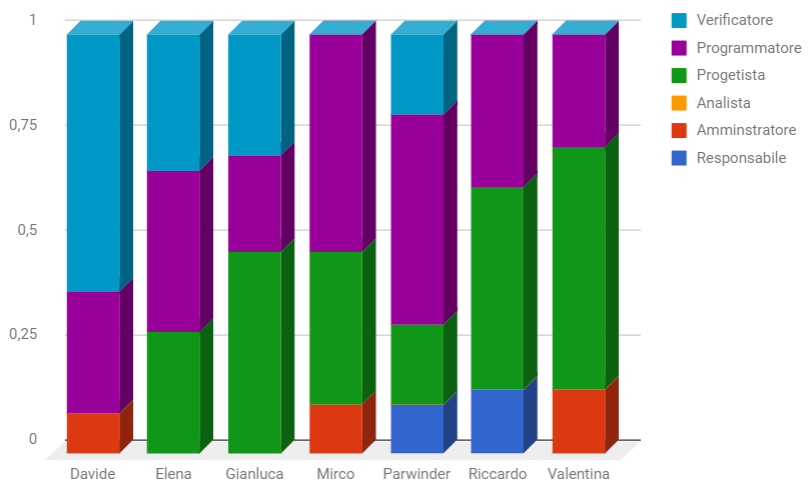
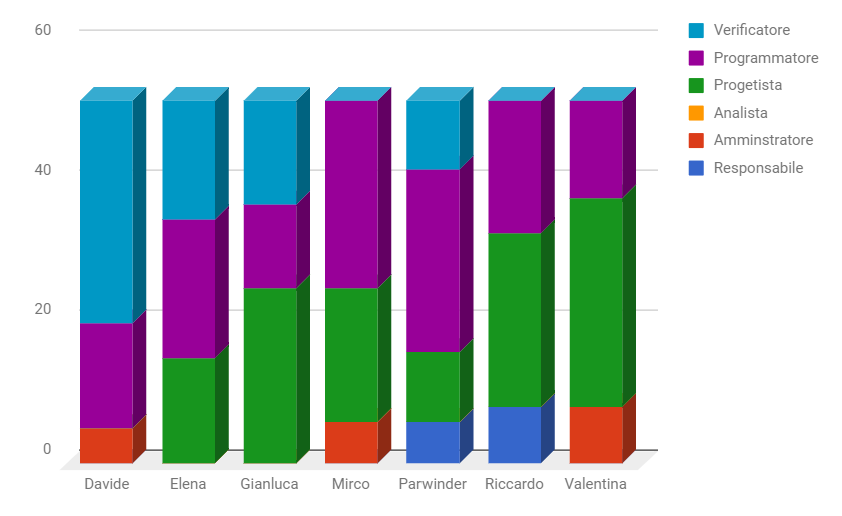
Fine preventivo piano di progetto

Changed region(s): [[0.0, 0.0308, 0.9864, 0.9856], [0.0308, 0.0308, 0.0617, 0.0616]]

diff --git a/Esterni - ENG/PianoDiProgetto/Preventivo.tex b/Esterni - ENG/PianoDiProgetto/Preventivo.tex
@@ -1,7 +1,7 @@
 \documentclass[PianoDiProgetto.tex]{subfiles}
 
 \begin{document}
-\chapter{Preventivo iniziale}
+\chapter{Suddivisione risorse e preventivo}
 \section{Analisi}
 \subsection{Prospetto Orario}
 Nel periodo di Analisi la distribuzione oraria è la seguente:
@@ -72,10 +72,8 @@ Il seguente grafico dà una rappresentazione visiva della distribuzione dei ruol
 \end{figure} 
 \clearpage
 \section{Consolidamento dei requisiti}
-
 \subsection{Prospetto Orario}
-Nel periodo di Consolidamento dei requisiti la distribuzione oraria è la
-seguente:
+Nel periodo di Consolidamento dei requisiti la distribuzione oraria è la seguente:
 \begin{center}
 
 \begin{table}[htbp]
@@ -106,6 +104,7 @@ seguente:
 Il seguente grafico dà una rappresentazione visiva della suddivisione oraria:
 
 \begin{figure}[h]
+	\centering
 	\includegraphics[width=14.5cm]{images/prospettoOrario/consolidamento.png}
 	\label{fig:foo}
 	\caption{Grafico suddivisione oraria del periodo di Consolidamento dei requisiti}
@@ -140,9 +139,10 @@ Nel periodo di Analisi la distribuzione delle ore tra i differenti ruoli è la s
 \end{center}
 Il seguente grafico dà una rappresentazione visiva della distribuzione dei ruoli:
 \begin{figure}[h]
-\includegraphics[width=12.5cm]{images/prospettoEconomico/consolidamento.png}
-\label{fig:foo}
-\caption{Grafico suddivisione dei ruoli del periodo di Consolidamento dei requisiti}
+	\centering
+	\includegraphics[width=12.5cm]{images/prospettoEconomico/consolidamento.png}
+	\label{fig:foo}
+	\caption{Grafico suddivisione dei ruoli del periodo di Consolidamento dei requisiti}
 \end{figure} 
 \clearpage
 \section{Progettazione architetturale}
@@ -175,6 +175,7 @@ Nel periodo di Progettazione architetturale la distribuzione oraria è la seguen
 \end{center}
 Il seguente grafico dà una rappresentazione visiva della suddivisione oraria:
 \begin{figure}[h]
+	\centering
 	\includegraphics[width=12.5cm]{images/prospettoOrario/progArch.png}
 	\label{fig:foo}
 	\caption{Grafico suddivisione oraria del periodo di Progettazione architetturale}
@@ -209,9 +210,10 @@ Nel periodo di Progettazione architetturale la distribuzione delle ore tra i dif
 \end{center}
 Il seguente grafico dà una rappresentazione visiva della distribuzione dei ruoli:
 \begin{figure}[h]
-	\includegraphics[width=12.5cm]{images/prospettoEconomico/progArch.png}
+	\centering
+	\includegraphics[width=11cm]{images/prospettoEconomico/progArch.png}
 	\label{fig:foo}
-	\caption{Grafico suddivisione oraria del periodo di Progettazione architetturale}
+	\caption{Grafico suddivisione dei ruoli del periodo di Progettazione architetturale}
 \end{figure} 
 \newpage
 \section{Progettazione di dettaglio e codifica}
@@ -244,6 +246,7 @@ Nel periodo di Progettazione di dettaglio e codifica la distribuzione oraria è 
 \end{center}
 Il seguente grafico dà una rappresentazione visiva della suddivisione oraria:
 \begin{figure}[h]
+	\centering
 	\includegraphics[width=10.5cm]{images/prospettoOrario/progCod.png}
 	\label{fig:foo}
 	\caption{Grafico suddivisione oraria del periodo di Progettazione di dettaglio e codifica}
@@ -277,6 +280,7 @@ Nel periodo di Progettazione di dettaglio e codifica la distribuzione delle ore 
 \end{center}
 Il seguente grafico dà una rappresentazione visiva della distribuzione dei ruoli:
 \begin{figure}[h]
+	\centering
 	\includegraphics[width=12.5cm]{images/prospettoEconomico/progCod.png}
 	\label{fig:foo}
 	\caption{Grafico suddivisione dei ruoli del periodo di Progettazione di dettaglio e codifica}
@@ -313,13 +317,15 @@ Nel periodo di Validazione e collaudo la distribuzione oraria è la seguente:
 \end{center}
 Il seguente grafico dà una rappresentazione visiva della suddivisione oraria:
 \begin{figure}[h]
+	\centering
 	\includegraphics[width=10.5cm]{images/prospettoOrario/valCol.png}
 	\label{fig:foo}
 	\caption{Grafico suddivisione oraria del periodo di Validazione e collaudo}
 \end{figure} 
 \newpage
 \subsection{Prospetto Economico}
-Nel periodo di Validazione e collaudo la distribuzione delle ore tra i differenti ruoli è la seguente:\begin{center}
+Nel periodo di Validazione e collaudo la distribuzione delle ore tra i differenti ruoli è la seguente:
+\begin{center}
 	\begin{table}[htbp]
 		\centering
 		\renewcommand\arraystretch{1.5}
@@ -346,14 +352,86 @@ Nel periodo di Validazione e collaudo la distribuzione delle ore tra i different
 \end{center}
 Il seguente grafico dà una rappresentazione visiva della distribuzione dei ruoli:
 \begin{figure}[h]
+	\centering
 	\includegraphics[width=12.5cm]{images/prospettoEconomico/valCol.png}
 	\label{fig:foo}
 	\caption{Grafico suddivisione dei ruoli del periodo di Validazione e collaudo}
 \end{figure} 
 \clearpage
-\section{Totale}
+\section{Totale ore rendicontate}
+\subsection{Totale suddivisione ore rendicontate}
+Di seguito sono riportate il totale delle sole ore rendicontate nel preventivo a carico del committente:
+\begin{center}
+	\begin{table}[htbp]
+		\centering
+		\renewcommand\arraystretch{1.5}
+		\begin{tabularx}{\textwidth}{p{4cm}|p{1cm}|p{1cm}|p{1cm}|p{1cm}|p{1cm}|p{1cm}|p{2cm}}
+			\hline
+			\textbf{Nome} & \textbf{Re} & \textbf{Ad} & \textbf{An} & \textbf{Pj} & \textbf{Pr} & \textbf{Ve} & \textbf{Totale} \\
+			\hline
+			\Davide & 4 & 13 & 10 & 18 & 15 & 42 & \textbf{102} \\
+			\hline
+			\Elena & \ & 8 & \ & 35 & 26 & 33 & \textbf{102} \\
+			\hline
+			\Gianluca & 4 & 5 & \ & 48 & 12 & 33 & \textbf{102} \\
+			\hline
+			\Mirco & 10 & 6 & \ & 39 & 27 & 20 & \textbf{102} \\
+			\hline
+			\Parwinder & 6 & 7 & \ & 25 & 32 & 32 & \textbf{102} \\
+			\hline
+			\Riccardo & 8 & 5 & \ & 53 & 19 & 17 & \textbf{102} \\
+			\hline
+			\Valentina & 2 & 12 & 10 & 46 & 24 & 8 & \textbf{102} \\
+			\hline
+		\end{tabularx}
+	\end{table}
+\end{center}
+Il seguente grafico dà una rappresentazione visiva della suddivisione oraria:\\
+\begin{figure}[h]
+	\centering
+	\includegraphics[width=10.5cm]{images/prospettoOrario/totRen.png}
+	\label{fig:foo}
+	\caption{Grafico suddivisione oraria totale delle ore rendicontate}
+\end{figure} 
+\clearpage
+\subsection{Totale del prospetto economico rendicontato}
+Di seguite è riportato il totale delle ore dei diversi ruoli del progetto contando solo le ore rendicontate nel preventivo a carico del committente cioè dei periodi di Progettazione architetturale, Progettazione di dettaglio e codifica e il periodo di Validazione e collaudo:
+\begin{center}
+	\begin{table}[htbp]
+		\centering
+		\renewcommand\arraystretch{1.5}
+		\begin{tabularx}{\textwidth}{p{5cm}|p{4cm}|p{4cm}}
+			\hline
+			\textbf{Ruolo} & \textbf{Ore} & \textbf{Costo in \euro} \\
+			\hline
+			Responsabile & 34 & 1.020,00 \\
+			\hline
+			Amministratore & 56 & 1.120,00 \\
+			\hline
+			Analista & 20 & 500,00 \\
+			\hline
+			Progettista & 264 & 5.808,00 \\
+			\hline
+			Programmatore & 155 & 2.325,00 \\
+			\hline
+			Verificatore & 185 & 2.775,00 \\
+			\hline
+			\textbf{Totale} & \textbf{910} & \textbf{13.548,00}\\
+			\hline
+		\end{tabularx}
+	\end{table} 
+\end{center}
+Il seguente grafico dà una rappresentazione visiva della distribuzione dei ruoli:
+\begin{figure}[h]
+	\centering
+	\includegraphics[width=10.5cm]{images/prospettoEconomico/totRen.png}
+	\label{fig:foo}
+	\caption{Grafico suddivisione dei ruoli totale delle ore rendicontate}
+\end{figure} 
+\clearpage
+\section{Totale ore con investimento}
 \subsection{Totale suddivisione ore con investimento}
-Di seguito sono riportate il totale delle ore del progetto contando le ore di investimento e delle ore rendicontate a carico del committente:
+Di seguito sono riportate il totale delle ore del progetto contando le ore di investimento e delle ore rendicontate nel preventivo a carico del committente:
 \begin{center}
 \begin{table}[htbp]
 	\centering
@@ -379,17 +457,49 @@ Di seguito sono riportate il totale delle ore del progetto contando le ore di in
 	\end{tabularx}
 \end{table}
 \end{center}
-Il seguente grafico dà una rappresentazione visiva della suddivisione oraria:\\
+Il seguente grafico dà una rappresentazione visiva della suddivisione oraria:
 \begin{figure}[h]
+	\centering
 	\includegraphics[width=10.5cm]{images/prospettoOrario/totale.png}
 	\label{fig:foo}
 	\caption{Grafico suddivisione oraria totale delle ore di investimento e rendicontate}
 \end{figure} 
-\newpage
-\subsection{Totale ore con investimento}
-\subsection{Totale suddivisione ore rendicontate}
-\subsection{Totale ore rendicontate}
-
+\clearpage
+\subsection{Totale del prospetto economico con investimento}
+Di seguito è riportato il totale delle ore dei diversi ruoli del progetto contando le ore di investimento e delle ore rendicontate nel preventivo a carico del committente:
+\begin{center}
+	\begin{table}[htbp]
+		\centering
+		\renewcommand\arraystretch{1.5}
+		\begin{tabularx}{\textwidth}{p{5cm}|p{4cm}|p{4cm}}
+			\hline
+			\textbf{Ruolo} & \textbf{Ore} & \textbf{Costo in \euro} \\
+			\hline
+			Responsabile & 62 & 1.860,00 \\
+			\hline
+			Amministratore & 81 & 1.620,00 \\
+			\hline
+			Analista & 121 & 3.025 \\
+			\hline
+			Progettista & 264 & 5.808,00 \\
+			\hline
+			Programmatore & 155 & 2.325,00 \\
+			\hline
+			Verificatore & 227 & 3.405,00 \\
+			\hline
+			\textbf{Totale} & \textbf{910} & \textbf{18.043,00}\\
+			\hline
+		\end{tabularx}
+	\end{table} 
+\end{center}
+Il seguente grafico dà una rappresentazione visiva della distribuzione dei ruoli:
+\begin{figure}[h]
+	\centering
+	\includegraphics[width=10.5cm]{images/prospettoEconomico/totInv.png}
+	\label{fig:foo}
+	\caption{Grafico suddivisione totale dei ruoli delle ore di investimento e rendicontate}
+\end{figure} 
+\clearpage
 \section{Conclusione}
 
 \end{document}

diff --git a/Esterni - ENG/PianoDiProgetto/Pianificazione.tex b/Esterni - ENG/PianoDiProgetto/Pianificazione.tex
@@ -54,39 +54,32 @@ Il periodo di Progettazione architetturale inizia il 26-01-2017 e termina il 27-
 \end{landscape}
 
 \section{Progettazione di dettaglio e codifica}
-Il periodo di Progettazione di dettaglio e codifica inizia il 19-03-2018 e
-termina il 16-04-2017: comincia il giorno stesso della Revisione di Progettazione e si conclude con la consegna dei documenti per la Revisione di
-Qualifica. Durante questo periodo le attività principali svolte sono:
-
-
+Il periodo di Progettazione di dettaglio e codifica inizia il 19-03-2018 e termina il 16-04-2017: comincia il giorno stesso della Revisione di Progettazione e si conclude con la consegna dei documenti per la Revisione di Qualifica. Durante questo periodo le attività principali svolte sono:
 \begin{itemize}
 	\item \textbf{Incremento e Verifica:} all'inizio del periodo vengono svolte attività di Incremento e Verifica su vari documenti (\normediprogetto, \pianodiprogetto, \pianodiqualifica\ e \technology);
 	\item \textbf{Glossario:} questa attività comprende sia il miglioramento del \glossario\ che l'aggiunta di nuovi termini;
 	\item \textbf{Lettera di presentazione:} questa attività prevede la stesura della lettera di presentazione per la Revisione di Qualifica;
-	\item \textbf{Product Baseline:} questa attività presenta la \textit{baseline} architetturale del prodotto tramite i  diagrammi delle classi e di sequenza,
-	mostrandone la coerenza con quanto mostrato durante l'attività di Technology Baseline. 
+	\item \textbf{Product Baseline:} questa attività presenta la \textit{baseline} architetturale del prodotto tramite i  diagrammi delle classi e di sequenza, mostrandone la coerenza con quanto mostrato durante l'attività di Technology Baseline. 
 	\item \textbf{Codifica:} questa attività consiste nella scrittura del codice e nella sua verifica;
-	\item \textbf{Manuale Utente:} questa attività consiste nella redazione del Manuale Utente, contenente indicazioni sull’utilizzo dell'applicazione che sta venendo prodotta.
+	\item \textbf{Manuale Utente:} questa attività consiste nella redazione del \manualeutente, contenente indicazioni sull’utilizzo dell'applicazione che sta venendo prodotta.
 \end{itemize}
 
 \begin{landscape}
 	\subsection{Progettazione architetturale - Diagramma di Gantt}
 	\begin{figure}[ht]
-		\includegraphics[width=21cm]{images/gantt/qualifica.png}
+		\includegraphics[width=20.5cm]{images/gantt/qualifica.png}
 		\label{fig:foo}
-		\caption{Diagramma di Gantt del periodo Progettazione di dettaglio e
-			codifica}
+		\caption{Diagramma di Gantt del periodo Progettazione di dettaglio e codifica}
 	\end{figure}	
 \end{landscape}
 
 \section{Validazione e collaudo}
-Il periodo di Validazione e collaudo inizia con il 23-04-2018 e termina il 07-05-2018: comincia il giorno stesso della Revisione di Qualifica e si conclude
-con la consegna dei documenti per la Revisione di Accettazione. Durante questo periodo le attività principali svolte sono:
+Il periodo di Validazione e collaudo inizia con il 23-04-2018 e termina il 07-05-2018: comincia il giorno stesso della Revisione di Qualifica e si conclude con la consegna dei documenti per la Revisione di Accettazione. Durante questo periodo le attività principali svolte sono:
 \begin{itemize}
-\item \textbf{Incremento e Verifica:} all’inizio del periodo vengono svolte attività di Incremento e Verifica su vari documenti (\normediprogetto,\pianodiprogetto, \pianodiqualifica e \product) seguendo le indicazioni risultanti dalla Revisione di Qualifica;
+\item \textbf{Incremento e Verifica:} all’inizio del periodo vengono svolte attività di Incremento e Verifica su vari documenti (\normediprogetto,\pianodiprogetto, \pianodiqualifica\ e \product) seguendo le indicazioni risultanti dalla Revisione di Qualifica;
 \item \textbf{Glossario:} questa attività comprende sia il miglioramento del \glossario\ che l’aggiunta dei nuovi termini;
 \item \textbf{Validazione e Collaudo:} questa attività consiste nell’esecuzione di ulteriori test e miglioramenti dell'applicazione prodotto per assicurare che soddisfi tutti i vincoli qualitativi;
-\item  \textbf{Manuale Utente:} questa attività consiste nel miglioramento e completamento del \manualeutente, contenente indicazioni sull’utilizzo dell'applicazione.
+\item \textbf{Manuale Utente:} questa attività consiste nel miglioramento e completamento del \manualeutente, contenente indicazioni sull’utilizzo dell'applicazione.
 \end{itemize}
 \begin{landscape}
 \subsection{Validazione e collaudo - Diagramma di Gantt}

diff --git a/Esterni - ENG/PianoDiProgetto/PianoDiProgetto.tex b/Esterni - ENG/PianoDiProgetto/PianoDiProgetto.tex
@@ -39,12 +39,12 @@
 				
 				\textbf{Stato} 			& In corso\\
 				\textbf{Uso}			& Esterno\\
-				\textbf{Destinato a}   	& Red Babbel\\
+				\textbf{Destinato a}   	& \Proponente\\
 										& Gruppo 353\\
-										& Prof. Tullio Vardanega\\
-										& Prof. Riccardo Cardin\\
+										& \Vardanega\\
+										& \Cardin\\
 				
-				\textbf{Email di contatto}	& 353swe@gmail.com
+				\textbf{Email di contatto}	& \mailleaf
 			\end{tabular}
 		\end{table}
 		\vfill
